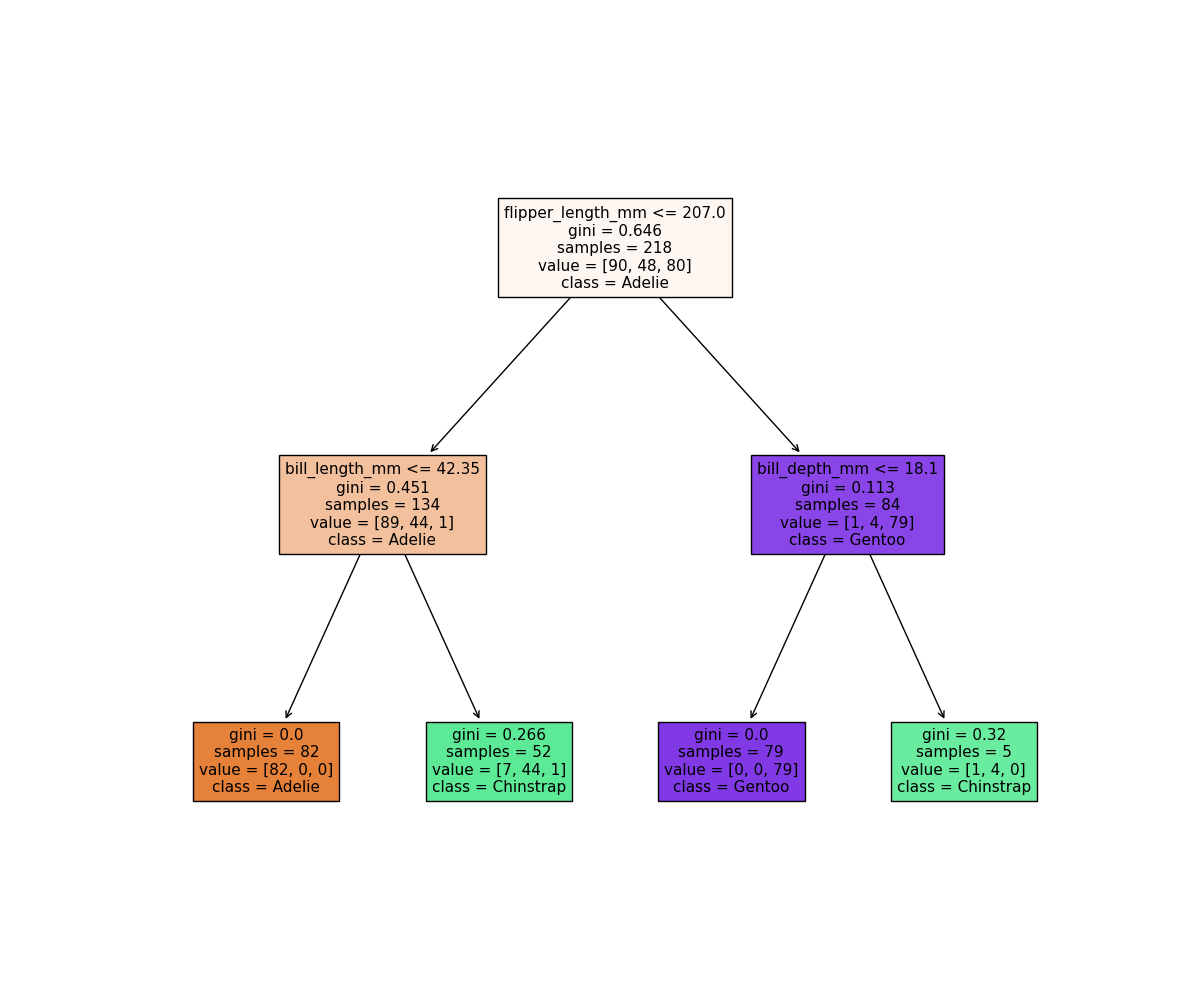
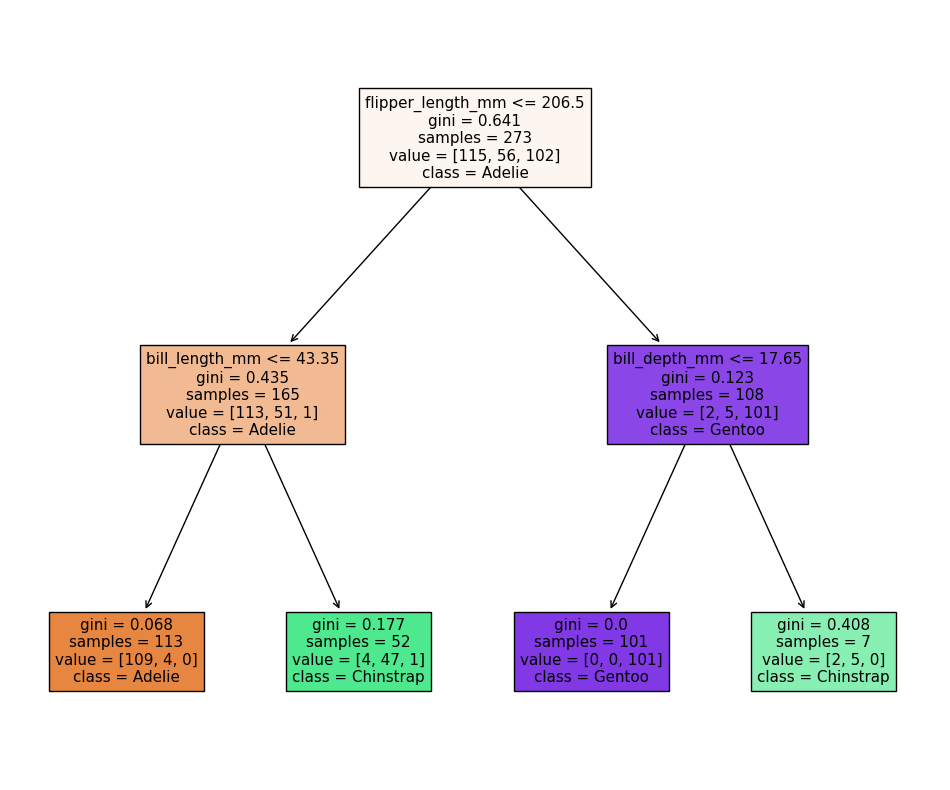
Reorder the classification content

diff --git a/episodes/03-classification.md b/episodes/03-classification.md
@@ -16,9 +16,9 @@ keypoints:
 
 Classification is a supervised method to recognise and group data objects into a pre-determined categories. Where regression uses labelled observations to predict a continuous numerical value, classification predicts a discrete categorical fit to a class. Classification in ML leverages a wide range of algorithms to classify a set of data/datasets into their respective categories.
 
-In this lesson we are going to introduce the concept of supervised classification by classifying penguin data into different species of penguins using Scikit-Learn.
+In this episode we are going to introduce the concept of supervised classification by classifying penguin data into different species of penguins using Scikit-Learn.
 
-### The penguins dataset
+## The penguins dataset
 We're going to be using the penguins dataset of Allison Horst, published [here](https://github.com/allisonhorst/palmerpenguins) in 2020, which is comprised of 342 observations of three species of penguins: Adelie, Chinstrap & Gentoo. For each penguin we have measurements of bill length and depth (mm), flipper length (mm), body mass (g), and information on species, island, and sex.
 
 ~~~
@@ -35,14 +35,30 @@ As a rule of thumb for ML/DL modelling, it is best to start with a simple model 
 
 For this lesson we will limit our dataset to only numerical values such as bill_length, bill_depth, flipper_length, and body_mass while we attempt to classify species.
 
-The above table contains multiple categorical objects such as species. If we attempt to include the other categorical fields, island and sex, we hinder classification performance due to the complexity of the data.
+The above table contains multiple categorical objects such as species. If we attempt to include the other categorical fields, island and sex, we might hinder classification performance due to the complexity of the data.
 
-### Training-testing split
-When undertaking any machine learning project, it's important to be able to evaluate how well your model works. In order to do this, we set aside some data (usually 20%) as a testing set, leaving the rest as your training dataset.
+## Training-testing split
+When undertaking any machine learning project, it's important to be able to evaluate how well your model works. 
 
-> ## Why do we do this?
-> It's important to do this early, and to do all of your work with the training dataset - this avoids any risk of you introducing bias to the model based on your own observations of data in the testing set, and can highlight when you are over-fitting on your training data.
+Rather than evaluating this manually we can instead set aside some of our training data, usually 20% of our training data, and use these as a testing dataset. We then train on the remaining 80% and use the testing dataset to evaluate the accuracy of our trained model. 
+
+We lose a bit of training data in the process, But we can now easily evaluate the performance of our model. With more advanced test-train split techniques we can even recover this lost training data!
+
+> ### Why do we do this?
+> It's important to do this early, and to do all of your work with the training dataset - this avoids any risk of you introducing bias to the model based on your own manual observations of data in the testing set (afterall, we want the model to make the decisions about parameters!). This can also highlight when you are over-fitting on your training data.
 {: .callout}
+
+How we split the data into training and testing sets is also extremely important. We need to make sure that our training data is representitive of both our test data and actual data. 
+
+For classification problems this means we should ensure that each class of interest is represented proportionately in both training and testing sets. For regression problems we should ensure that our training and test sets cover the range of feature values that we wish to predict.
+
+In the previous regression episode we created the penguin training data by taking the first 146 samples our the dataset. Unfortunately the penguin data is sorted by species and so our training data only considered one type of penguin and thus was not representitive of the actual data we tried to fit. We could have avoided this issue by randomly shuffling our penguin samples before splitting the data.
+
+> ### When not to shuffle your data
+> Sometimes your data is dependant on it's ordering, such as time-series data where past values influence future predictions. Creating train-test splits for this can be tricky at first glance, but fortunately there are existing techniques to tackle this (often called stratification): See [Scikit-Learn](https://scikit-learn.org/stable/modules/cross_validation.html#cross-validation-iterators) for more information.
+{: .callout}
+
+Lets do some pre-processing on our dataset and specify our `X` features and `Y` labels:
 
 ~~~
 # Extract the data we need
@@ -57,7 +73,7 @@ Y = dataset['species']
 ~~~
 {: .language-python}
 
-Having extracted our features (X) and labels (Y), we can now split the data
+Having extracted our features `X` and labels `y`, we can now split the data using the `train_test_split` function. We specify the fraction of data to use as test data, and the function randomly shuffles our data prior to splitting:
 
 ~~~
 from sklearn.model_selection import train_test_split
@@ -66,7 +82,7 @@ x_train, x_test, y_train, y_test = train_test_split(X, Y, test_size=0.2, random_
 ~~~
 {: .language-python}
 
-We'll use x_train and y_train to develop our model, and only look at x_test and y_test when it's time to evaluate its performance.
+We'll use `x_train` and `y_train` to develop our model, and only look at `x_test` and `y_test` when it's time to evaluate its performance.
 
 ### Visualising the data
 In order to better understand how a model might classify this data, we can first take a look at the data visually, to see what patterns we might identify.
@@ -97,27 +113,33 @@ We can see that penguins from each species form fairly distinct spatial clusters
 ## Classification using a decision tree
 We'll first apply a decision tree classifier to the data. Decisions trees are conceptually similar to flow diagrams (or more precisely for the biologists: dichotomous keys). They split the classification problem into a binary tree of comparisons, at each step comparing a measurement to a value, and moving left or right down the tree until a classification is reached.
 
-(figure)
+![Decision tree for classifying penguins](../fig/decision_tree_example.png)
+
 
 Training and using a decision tree in Scikit-Learn is straightforward:
 ~~~
 from sklearn.tree import DecisionTreeClassifier, plot_tree
 
-clf = DecisionTreeClassifier()
+clf = DecisionTreeClassifier(max_depth=2)
 clf.fit(x_train, y_train)
 
 clf.predict(x_test)
 ~~~
 {: .language-python}
 
+> ## Hyper-parameters: parameters that tune a model
+> 'Max Depth' is an example of a *hyper-parameter* for the decision tree model. Where models use the parameters of an observation to predict a result, hyper-parameters are used to tune how a model works. Each model you encounter will have its own set of hyper-parameters, each of which affects model behaviour and performance in a different way. The process of adjusting hyper-parameters in order to improve model performance is called hyper-parameter tuning.
+
+
 We can conveniently check how our model did with the .score() function, which will make predictions and report what proportion of them were accurate:
 
 ~~~
 clf_score = clf.score(x_test, y_test)
+print(clf_score)
 ~~~
 {: .language-python}
 
-We can also look at the decision tree that was generated:
+Our model reports an accuracy of ~98% on the test data! We can also look at the decision tree that was generated:
 
 ~~~
 fig = plt.figure(figsize=(12, 10))
@@ -126,15 +148,20 @@ plt.show()
 ~~~
 {: .language-python}
 
-![Decision tree for classifying penguins](../fig/e3_dt_6.png)
+![Decision tree for classifying penguins](../fig/e3_dt_2.png)
 
-We can see from this that there's some very tortuous logic being used to tease out every single observation in the training set. For example, the single purple Gentoo node at the bottom of the tree. If we truncated that branch to the second level (Chinstrap), we'd have a little inaccuracy, a total of 9 non-Chinstraps in with 48 Chinstraps, but a less convoluted model.
+The first first question (`depth=1`) splits the training data into "Adelie" and "Gentoo" categories using the criteria `flipper_length_mm <= 206.5`, and the next two questions (`depth=2`) split the "Adelie" and "Gentoo" categories into "Adelie & Chinstrap" and "Gentoo & Chinstrap" predictions. 
+
+
+
+<!-- We can see from this that there's some very tortuous logic being used to tease out every single observation in the training set. For example, the single purple Gentoo node at the bottom of the tree. If we truncated that branch to the second level (Chinstrap), we'd have a little inaccuracy, a total of 9 non-Chinstraps in with 48 Chinstraps, but a less convoluted model.
 
 The tortuous logic, such as the bottom purple Gentoo node, is a clear indication that this model has been over-fitted. It has developed a very complex delineation of the classification space in order to match every single observation, which will likely lead to poor results for new observations.
 
+We can see that rather than clean lines between species, the decision tree produces orthogonal regions as each decision only considers a single parameter. Again, we can see that the model is over-fitting as the decision space is far more complex than needed, with regions that only select a single point. -->
 
 ### Visualising the classification space
-We can visualise the delineation produced, but only for two parameters at a time, so the model produced here isn't exactly the same as that used above:
+We can visualise the classification space (decision tree boundaries) to get a more intuitive feel for what it is doing.Note that our 2D plot can only show two parameters at a time, so we will quickly visualise by training a new model on only 2 features:
 
 ~~~
 from sklearn.inspection import DecisionBoundaryDisplay
@@ -142,7 +169,7 @@ from sklearn.inspection import DecisionBoundaryDisplay
 f1 = feature_names[0]
 f2 = feature_names[3]
 
-clf = DecisionTreeClassifier()
+clf = DecisionTreeClassifier(max_depth=2)
 clf.fit(x_train[[f1, f2]], y_train)
 
 d = DecisionBoundaryDisplay.from_estimator(clf, x_train[[f1, f2]])
@@ -152,9 +179,74 @@ plt.show()
 ~~~
 {: .language-python}
 
-![Classification space for our decision tree](../fig/e3_dt_space_6.png)
+![Classification space for our decision tree](../fig/e3_dt_space_2.png)
 
-We can see that rather than clean lines between species, the decision tree produces orthogonal regions as each decision only considers a single parameter. Again, we can see that the model is over-fitting as the decision space is far more complex than needed, with regions that only select a single point.
+## Tuning the `max_depth` hyperparameter
+
+Our decision tree using a `max_depth=2` is fairly simple and there are still some incorrect predictions in our final classifications. Let's try varying the `max_depth` hyperparameter to see if we can improve our model predictions.
+
+<!-- We can reduce the over-fitting of our decision tree model by limiting its depth, forcing it to use less decisions to produce a classification, and resulting in a simpler decision space. -->
+
+~~~
+import pandas as pd
+
+max_depths = [1, 2, 3, 4, 5]
+
+accuracy = []
+for i, d in enumerate(max_depths):
+    clf = DecisionTreeClassifier(max_depth=d)
+    clf.fit(x_train, y_train)
+    acc = clf.score(x_test, y_test)
+
+    accuracy.append((d, acc))
+
+acc_df = pd.DataFrame(accuracy, columns=['depth', 'accuracy'])
+
+sns.lineplot(acc_df, x='depth', y='accuracy')
+plt.xlabel('Tree depth')
+plt.ylabel('Accuracy')
+plt.show()
+~~~
+{: .language-python}
+
+![Performance of decision trees of various depths](../fig/e3_dt_overfit.png)
+
+Here we can see that a `max_depth=2` performs slightly better on the test data than those with `max_depth > 2`. This can seem counter intuitive, as surely more questions should be able to better split up our categories and thus give better predictions?
+
+Let's reuse our fitting and plotting codes from above to inspect a decision tree that has `max_depth=5`:
+
+~~~
+clf = DecisionTreeClassifier(max_depth=5)
+clf.fit(x_train, y_train)
+
+fig = plt.figure(figsize=(12, 10))
+plot_tree(clf, class_names=class_names, feature_names=feature_names, filled=True, ax=fig.gca())
+plt.show()
+~~~
+{: .language-python}
+
+![Simplified decision tree](../fig/e3_dt_6.png)
+
+It looks like our decision tree has split up the training data into the correct penguin categories and more accurately than the `max_depth=2` model did, however it used some very specific questions to split up the penguins into the correct categories. Let's try visualising the classification space for a more intuitive understanding:
+~~~
+f1 = feature_names[0]
+f2 = feature_names[3]
+
+clf = DecisionTreeClassifier(max_depth=5)
+clf.fit(x_train[[f1, f2]], y_train)
+
+d = DecisionBoundaryDisplay.from_estimator(clf, x_train[[f1, f2]])
+
+sns.scatterplot(x_train, x=f1, y=f2, hue=y_train, palette='husl')
+plt.show()
+~~~
+{: .language-python}
+
+![Classification space of the simplified decision tree](../fig/e3_dt_space_6.png)
+
+Earlier we saw that the `max_depth=2` model split the data into 3 simple bounding boxes, whereas for `max_depth=5` we see the model has created some very specific classification boundaries to correctly classify every point in the training data.
+
+This is a classic case of over-fitting - our model has produced extremely specific parameters that work for the training data but are not representitive of our test data. Sometimes simplicity is better!
 
 
 ## Classification using support vector machines
@@ -208,78 +300,6 @@ plt.show()
 
 ![Classification space generated by the SVM model](../fig/e3_svc_space.png)
 
-While this SVM model performs slightly worse than our decision tree (95.6% vs. 97.1%), we can see that the decision space is much simpler, and less likely to be overfit to the data.
+While this SVM model performs slightly worse than our decision tree (95.6% vs. 98.5%), it's likely that the non-linear boundaries will perform better when exposed to more and more real data, as decision trees are prone to overfitting and requires complex linear models to reproduce simple non-linear boundaries. It's important to pick a model that is appropriate for your problem and data trends!
 
-
-## Reducing over-fitting in the decision tree
-We can reduce the over-fitting of our decision tree model by limiting its depth, forcing it to use less decisions to produce a classification, and resulting in a simpler decision space.
-
-~~~
-max_depths = [1, 2, 3, 4, 5]
-
-accuracy = []
-for i, d in enumerate(max_depths):
-    clf = DecisionTreeClassifier(max_depth=d)
-    clf.fit(x_train, y_train)
-    acc = clf.score(x_test, y_test)
-
-    accuracy.append((d, acc))
-
-acc_df = pd.DataFrame(accuracy, columns=['depth', 'accuracy'])
-
-sns.lineplot(acc_df, x='depth', y='accuracy')
-plt.xlabel('Tree depth')
-plt.ylabel('Accuracy')
-plt.show()
-~~~
-{: .language-python}
-
-![Performance of decision trees of various depths](../fig/e3_dt_overfit.png)
-
-Here we can see that a maximum depth of two performs just as well as our original model with a depth of five. In this example it even performs a little better.
-
-
-Reusing our visualisation code from above, we can inspect our simplified decision tree and decision space:
-
-~~~
-clf = DecisionTreeClassifier(max_depth=2)
-clf.fit(x_train, y_train)
-
-fig = plt.figure(figsize=(12, 10))
-plot_tree(clf, class_names=class_names, feature_names=feature_names, filled=True, ax=fig.gca())
-plt.show()
-~~~
-{: .language-python}
-
-![Simplified decision tree](../fig/e3_dt_2.png)
-
-Noting the added max_depth=2 parameter.
-
-~~~
-f1 = feature_names[0]
-f2 = feature_names[3]
-
-clf = DecisionTreeClassifier(max_depth=2)
-clf.fit(x_train[[f1, f2]], y_train)
-
-d = DecisionBoundaryDisplay.from_estimator(clf, x_train[[f1, f2]])
-
-sns.scatterplot(x_train, x=f1, y=f2, hue=y_train, palette='husl')
-plt.show()
-~~~
-{: .language-python}
-
-![Classification space of the simplified decision tree](../fig/e3_dt_space_2.png)
-
-We can see that both the tree and the decision space are much simpler, but still do a good job of classifying our data. We've succeeded in reducing over-fitting.
-
-> ## Hyper-parameters: parameters that tune a model
-> 'Max Depth' is an example of a *hyper-parameter* for the decision tree model. Where models use the parameters of an observation to predict a result, hyper-parameters are used to tune how a model works. Each model you encounter will have its own set of hyper-parameters, each of which affects model behaviour and performance in a different way. The process of adjusting hyper-parameters in order to improve model performance is called hyper-parameter tuning.
 {: .callout}
-
-
-### Note that care is needed when splitting data
-- You generally want to ensure that each class is represented proportionately in both training and testing (beware of just taking the first 80%).
-- Sometimes you want to make sure a group is excluded from the train/test split, e.g.: when multiple samples come from one individual.
-- This is often called stratification
-See [Scikit-Learn](https://scikit-learn.org/stable/modules/cross_validation.html#cross-validation-iterators) for more information.

diff --git a/episodes/01-introduction.md b/episodes/01-introduction.md
@@ -25,7 +25,7 @@ Machine learning is a set of techniques that enable computers to use data to imp
 
 The term machine learning (ML) is often mentioned alongside artificial intelligence (AI) and deep learning (DL). Deep learning is a subset of machine learning, and machine learning is a subset of artificial intelligence.
 
-AI is a broad term used to describe a system possessing a "general intelligence" that can be applied to solve a diverse range of problems, often mimicking the behaviour of intelligent biological systems. Modern attempts are getting close to fooling humans, but while there have been great advances in AI and ML research, human-like intelligence is only possible in a few specialist areas. Despite this technical definition, AI is often used to describe ML and DL systems in general.
+AI is increasingly being used as a catch-all term to describe things that encompass ML and DL systems - from simple email spam filters, to more complex image recognition systems, to large language models such as ChatGPT. The more specific term "Artificial General Intelligence" (AGI) is used to describe a system possessing a "general intelligence" that can be applied to solve a diverse range of problems, often mimicking the behaviour of intelligent biological systems. Modern attempts at AGI are getting close to fooling humans, but while there have been great advances in AI research, human-like intelligence is only possible in a few specialist areas. 
 
 ML refers to techniques where a computer can "learn" patterns in data, usually by being shown many training examples. While ML algorithms can learn to solve specific problems, or multiple similar problems, they are not considered to possess a general intelligence. ML algorithms often need hundreds or thousands of examples to learn a task and are confined to activities such as simple classifications. A human-like system could learn much quicker than this, and potentially learn from a single example by using it's knowledge of many other problems.
 
@@ -104,13 +104,15 @@ Machine learning is about creating models from data: for that reason, we'll star
 
 Most machine learning algorithms implemented in scikit-learn expect data to be stored in a two-dimensional array or matrix. The arrays can be either numpy arrays, or in some cases scipy.sparse matrices. The size of the array is expected to be [n_samples, n_features]
 
+We typically have a "Features Matrix" (usually referred to as the code variable `X`) which are the "features" data we wish to train on. 
+
 * n_samples: The number of samples. A sample can be a document, a picture, a sound, a video, an astronomical object, a row in database or CSV file, or whatever you can describe with a fixed set of quantitative traits.
 * n_features: The number of features (variables) that can be used to describe each item in a quantitative manner. Features are generally real-valued, but may be boolean or discrete-valued in some cases.
 
+If we want our ML models to make predictions or classifications, we also provide "labels" as our expected "answers/results". The model will then be trained on the input features to try and match our provided labels. This is done by providing a "Target Array" (usually referred to as the code variable `y`) which contains the "labels or values" that we wish to predict using the features data.
+
 ![Types of Machine Learning](../fig/introduction/sklearn_input.png)
 Figure from the [Python Data Science Handbook](https://github.com/jakevdp/PythonDataScienceHandbook)
-
-If we want our ML models to make predictions or classifications, we also provide "labels" as our expected "answers/results". The model will then be trained on the input features to try and match our provided labels.
 
 # What will we cover today?
 
